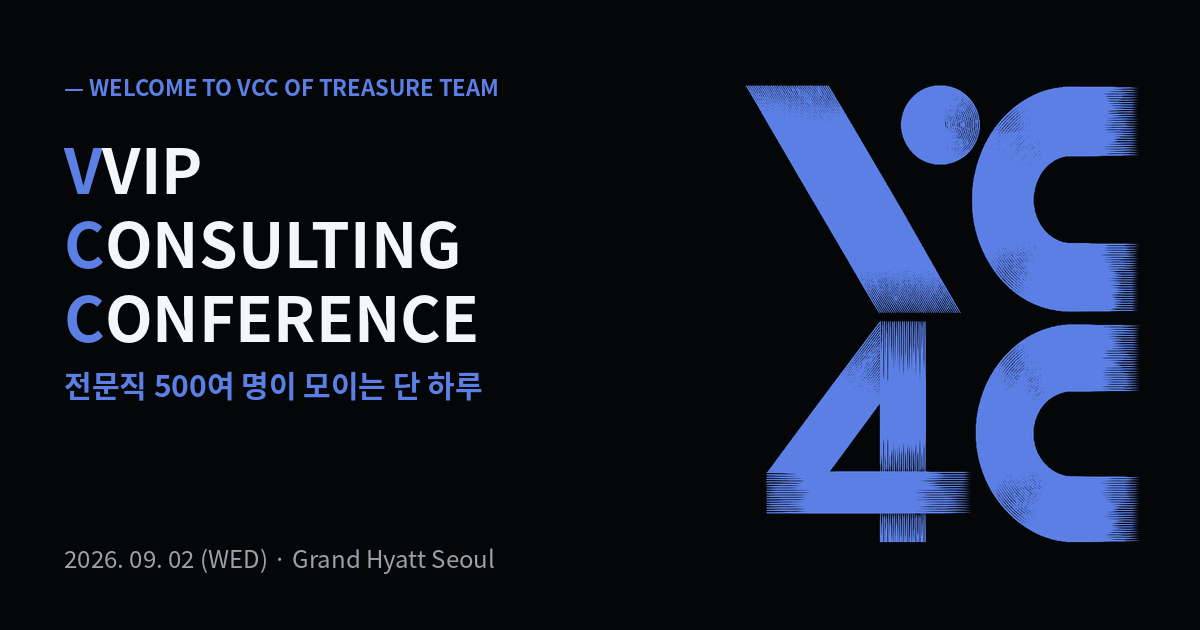
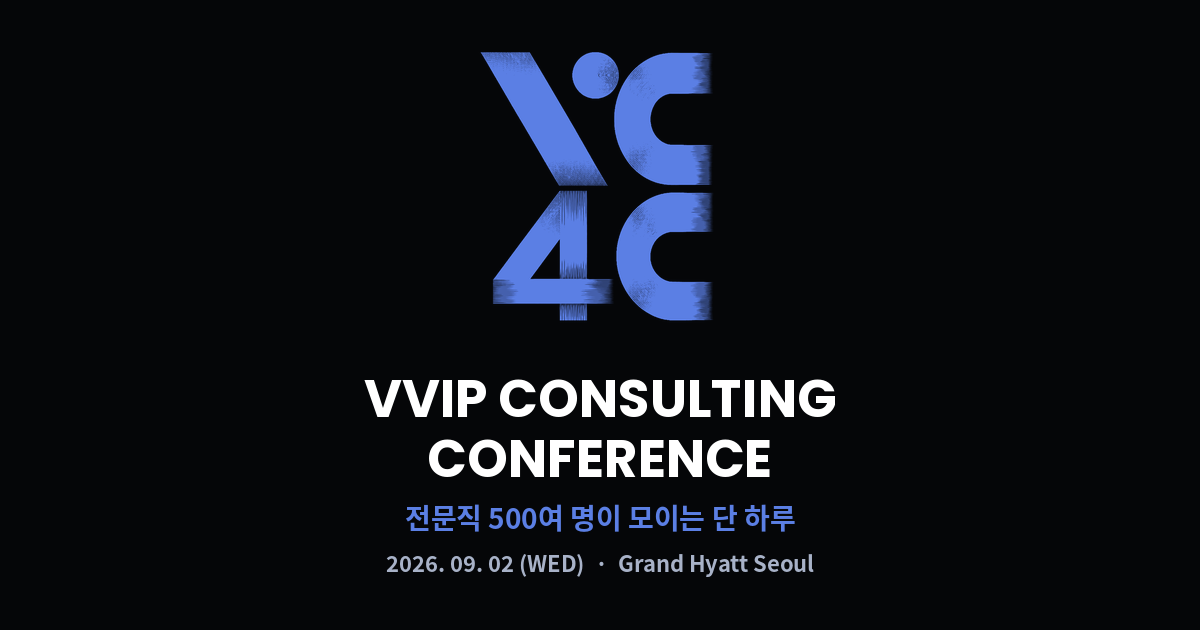
Add files via upload

Changed region(s): [[0.0308, 0.0603, 0.9558, 0.8746], [0.0617, 0.8746, 0.6783, 0.9048]]

diff --git a/index.html b/index.html
@@ -15,16 +15,13 @@
 <meta property="og:url" content="https://vcc-treasureteam.vercel.app/">
 <meta property="og:title" content="VCC | VVIP Consulting Conference - TREASURE TEAM">
 <meta property="og:description" content="전문직 500여 명이 모이는 단 하루. 2026.09.02(수) 그랜드 하얏트 서울, VVIP 컨설팅 컨퍼런스에 지금 신청하세요.">
-<meta property="og:image" content="https://vcc-treasureteam.vercel.app/og-image-square.png">
-<meta property="og:image:width" content="1200">
-<meta property="og:image:height" content="1200">
 <meta property="og:image" content="https://vcc-treasureteam.vercel.app/og-image.png">
 <meta property="og:image:width" content="1200">
 <meta property="og:image:height" content="630">
 <meta name="twitter:card" content="summary_large_image">
 <meta name="twitter:title" content="VCC | VVIP Consulting Conference - TREASURE TEAM">
 <meta name="twitter:description" content="전문직 500여 명이 모이는 단 하루. 2026.09.02(수) 그랜드 하얏트 서울">
-<meta name="twitter:image" content="https://vcc-treasureteam.vercel.app/og-image-square.png">
+<meta name="twitter:image" content="https://vcc-treasureteam.vercel.app/og-image.png">
 
 <link rel="preconnect" href="https://fonts.googleapis.com">
 <link rel="preconnect" href="https://fonts.gstatic.com" crossorigin>

diff --git a/mobile.html b/mobile.html
@@ -15,13 +15,13 @@
 <meta property="og:url" content="https://vcc-treasureteam.vercel.app/mobile.html">
 <meta property="og:title" content="VCC | VVIP Consulting Conference - TREASURE TEAM">
 <meta property="og:description" content="전문직 500여 명이 모이는 단 하루. 2026.09.02(수) 그랜드 하얏트 서울, VVIP 컨설팅 컨퍼런스에 지금 신청하세요.">
-<meta property="og:image" content="https://vcc-treasureteam.vercel.app/og-image-square.png">
+<meta property="og:image" content="https://vcc-treasureteam.vercel.app/og-image.png">
 <meta property="og:image:width" content="1200">
-<meta property="og:image:height" content="1200">
+<meta property="og:image:height" content="630">
 <meta name="twitter:card" content="summary_large_image">
 <meta name="twitter:title" content="VCC | VVIP Consulting Conference - TREASURE TEAM">
 <meta name="twitter:description" content="전문직 500여 명이 모이는 단 하루. 2026.09.02(수) 그랜드 하얏트 서울">
-<meta name="twitter:image" content="https://vcc-treasureteam.vercel.app/og-image-square.png">
+<meta name="twitter:image" content="https://vcc-treasureteam.vercel.app/og-image.png">
 
 <link rel="preconnect" href="https://fonts.googleapis.com">
 <link rel="preconnect" href="https://fonts.gstatic.com" crossorigin>
